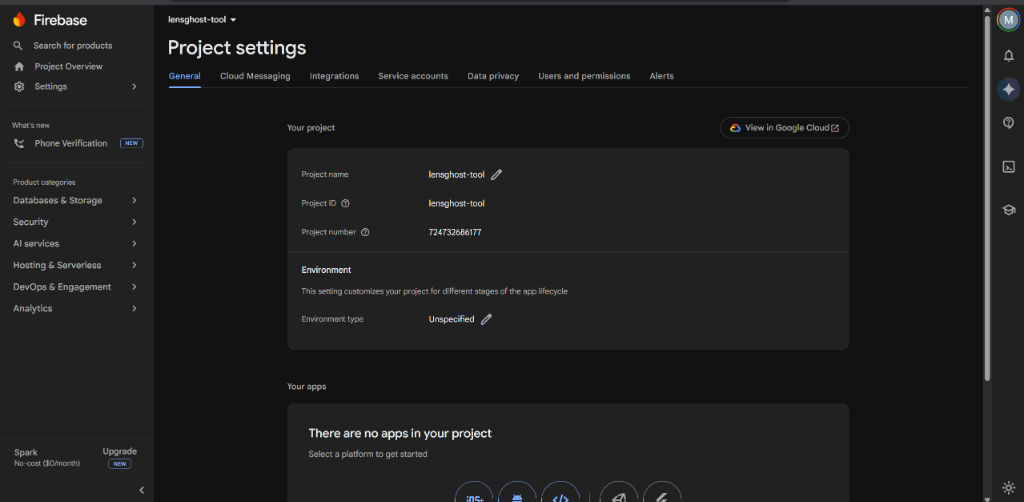
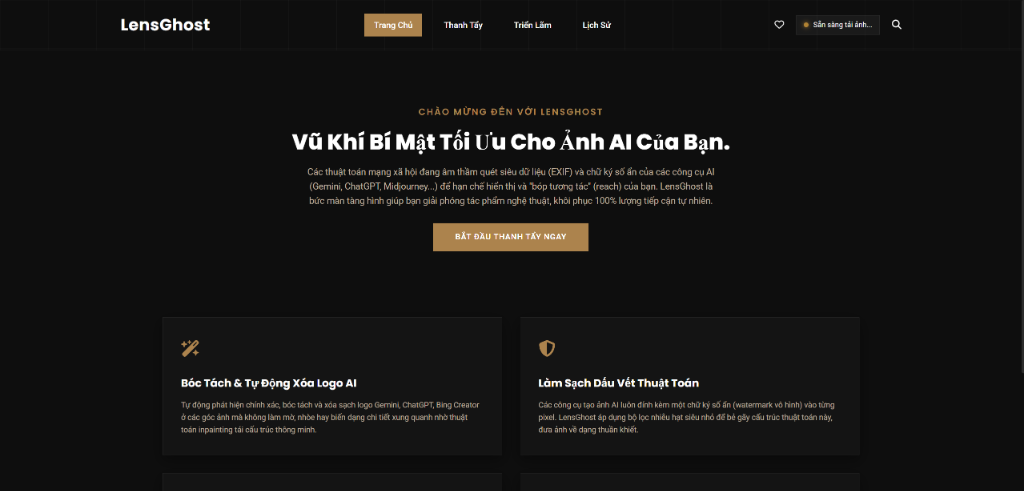
docs: Update screenshots, delete old screenshots, and remove firebase config from repository

diff --git a/README.md b/README.md
@@ -14,16 +14,13 @@
 
 ## 🎨 Giao Diện Ứng Dụng (Exhibition Art Gallery)
 
-Dưới đây là một số hình ảnh thực tế về giao diện của LensGhost, được thiết kế theo phong cách phòng trưng bày nghệ thuật sang trọng (Charcoal Dark & Gold Accent) dựa trên theme WordPress Artist Art Gallery:
+Dưới đây là hình ảnh thực tế về giao diện của LensGhost, được thiết kế theo phong cách phòng trưng bày nghệ thuật sang trọng (Charcoal Dark & Gold Accent) dựa trên theme WordPress Artist Art Gallery:
 
 ### 1. Trang Chủ / Landing Page Thu Hút
-![Trang Chủ LensGhost](screenshot.png)
+![Trang Chủ LensGhost](screenshot1.png)
 
-### 2. Giao Diện Xử Lý Canvas Triển Lãm & Polaroid Carousel
-![Giao Diện Triển Lãm](screenshot1.png)
-
-### 3. Trình Quản Lý & Giả Lập Siêu Dữ Liệu EXIF
-![Thông Số Siêu Dữ Liệu EXIF](screenshot2.png)
+### 2. Giao Diện Xử Lý Canvas & Bộ Lọc Thanh Tẩy
+![Giao Diện Triển Lãm](screenshot2.png)
 
 ---
 